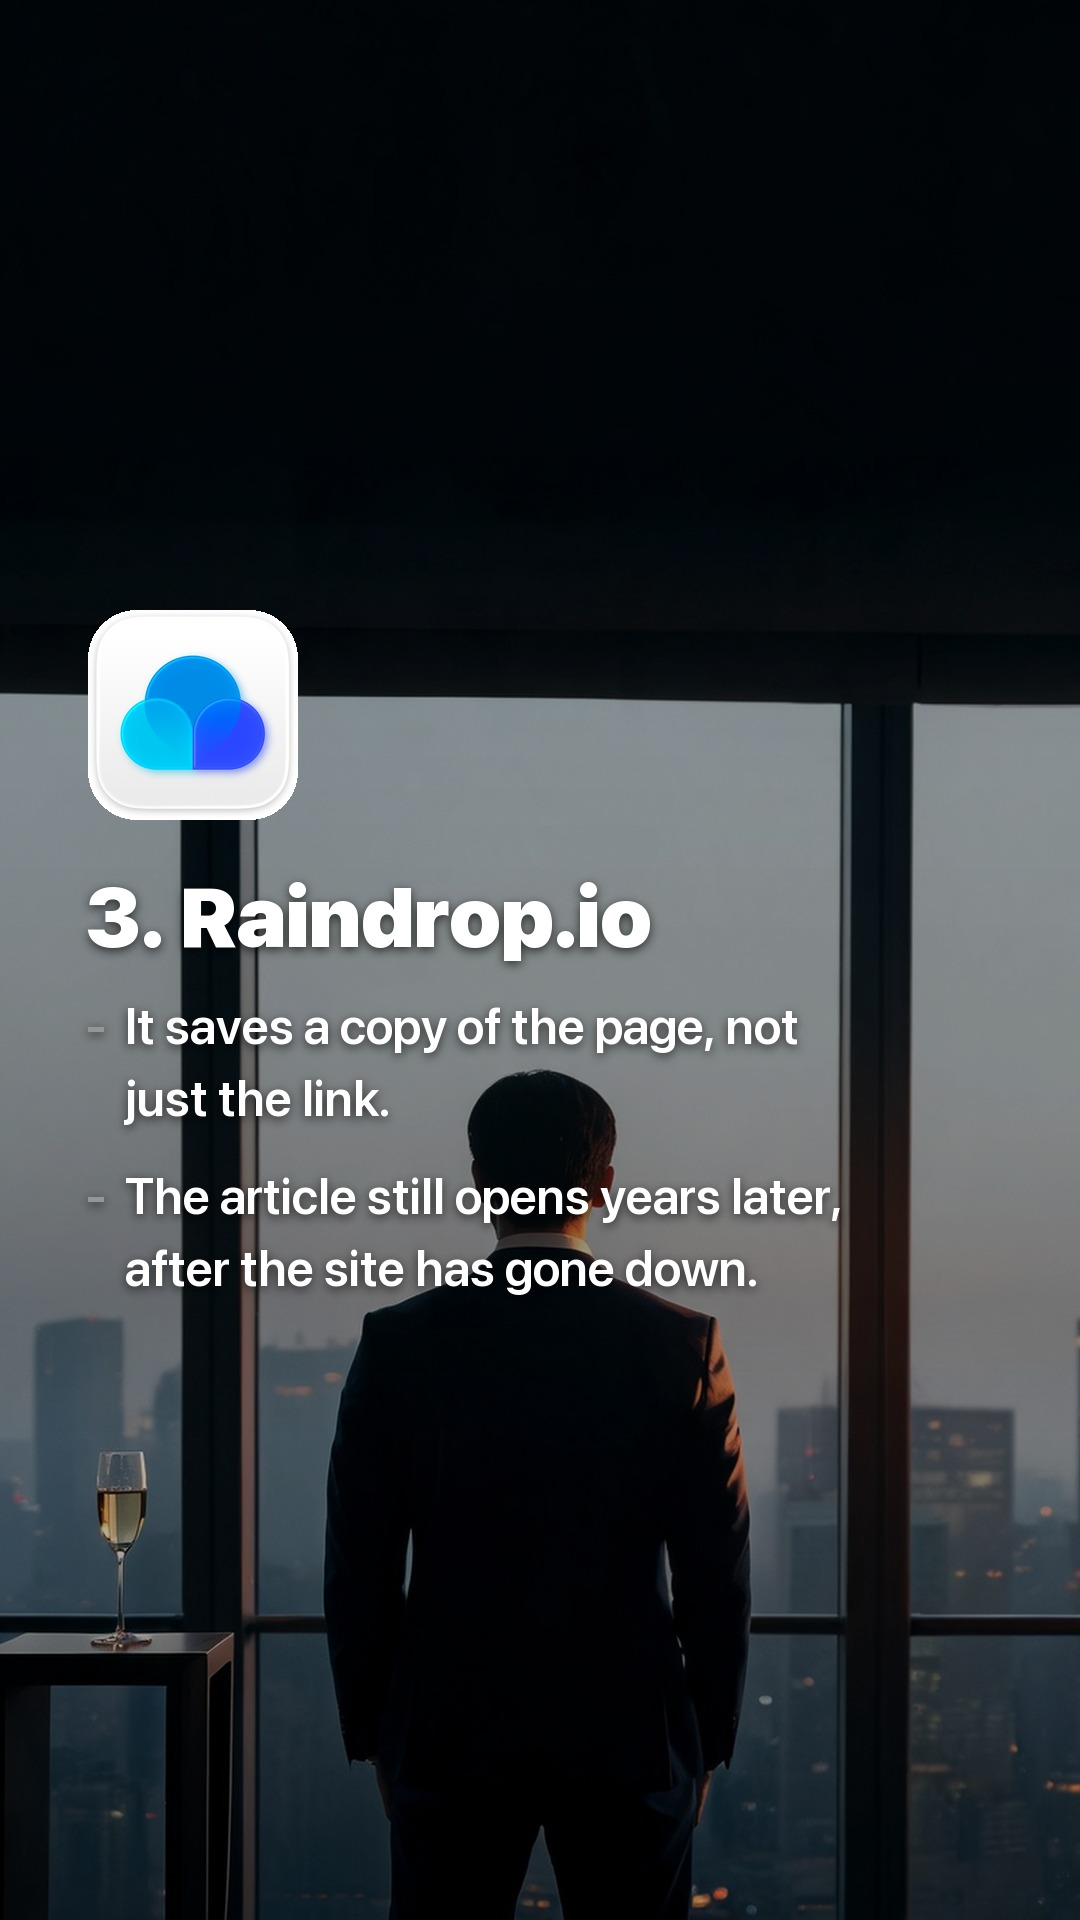
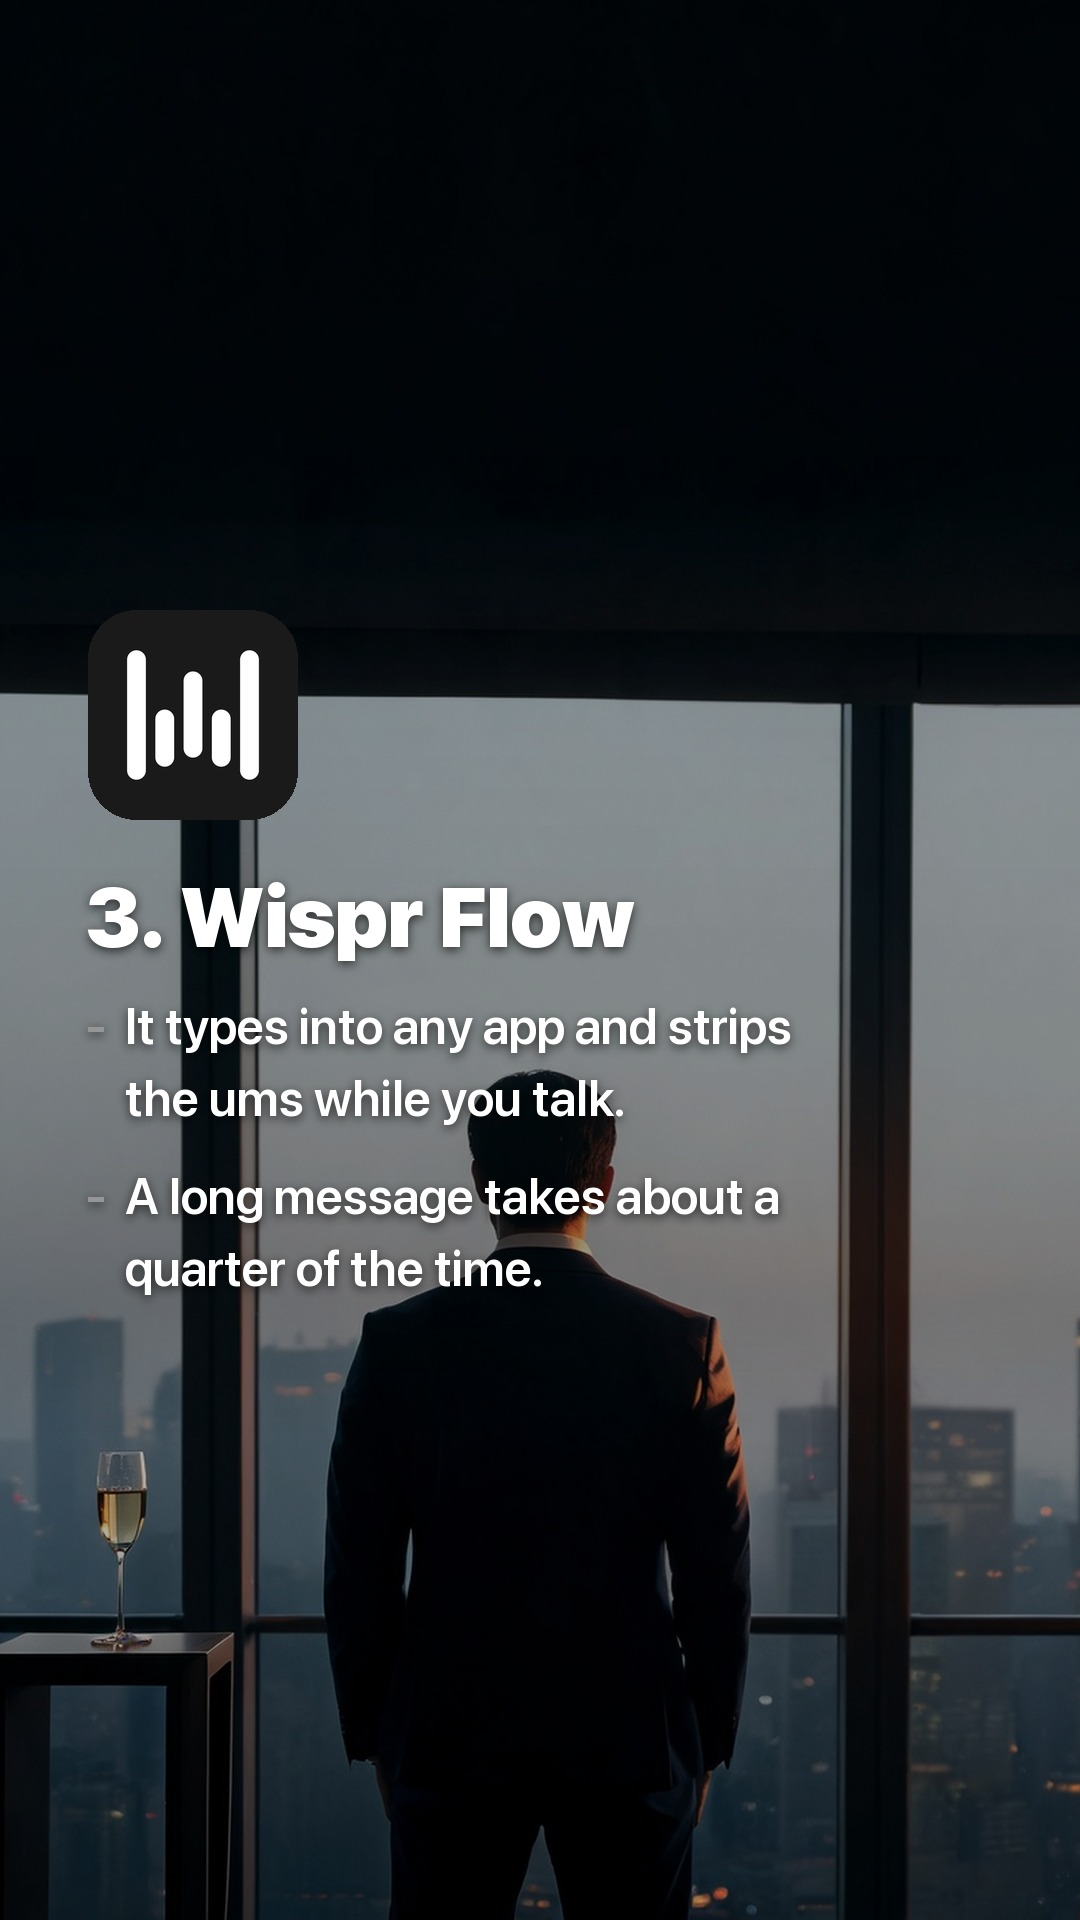
big apps only: supporting tools must be names the viewer already has
A small app in the roster is free promotion for someone else and costs a
slot, because the viewer stops to work out what it is instead of learning
the slide. ARCO is the only discovery in the post, and it reads as a find
because everything around it is familiar. assert_big_apps enforces it.

open-every-day rebuilt on Shortcuts, ARCO, Wispr Flow, Google Sheets and
Apple Notes. Canva, CapCut and Higgsfield are the right tier but are all
still inside the 6-post cooldown from post-daily-faceless and
business-at-19, so reusing them now would be the repetition the cooldown
exists to stop. Icons pulled from App Store artwork and checked by eye.

Claude-Session: https://claude.ai/code/session_018WcmYQJRQqBfrRpJzu76Jc

Changed region(s): [[0.0611, 0.3125, 0.7639, 0.6875]]

diff --git a/tools/gen-open-every-day.py b/tools/gen-open-every-day.py
@@ -1,31 +1,33 @@
 #!/usr/bin/env python3
-"""open-every-day: tools pillar, everyday productivity niche.
+"""open-every-day: tools pillar, everyday productivity, big apps only.
 
-Replaces ship-alone. That post was one niche but far too deep: Proxyman and
-Fastlane only land with iOS engineers, and this audience is not that. Same
-rule, wider job: the apps you actually reach for daily.
+Supporting tools are names the audience already has installed. Naming a small
+app promotes it for free and costs a slot, because the viewer stops to work
+out what it is. ARCO is the only app in the post anyone is meant to discover.
 """
 import os
 import sys
 sys.path.insert(0, '/Users/thinh/SIXSIX/arco-app/tools')
 from compose import (app_slide, hook_slide, assert_varied, assert_fresh_tools,
-                     assert_same_niche, next_arco_angle, record_post_tools)
+                     assert_same_niche, assert_big_apps, next_arco_angle,
+                     record_post_tools)
 
 OUT = '/Users/thinh/SIXSIX/arco-app/drafts/open-every-day'
 os.makedirs(OUT, exist_ok=True)
 
-TOOLS = ['Obsidian', 'ARCO', 'Raindrop.io', 'Readwise Reader', 'Excalidraw']
+TOOLS = ['Apple Shortcuts', 'ARCO', 'Wispr Flow', 'Google Sheets', 'Apple Notes']
 
 # App slides carry five lines of body copy, so their backgrounds have to be
 # dark enough for the scrim to hold white text. Daylight scenes wash the copy
 # out no matter how hard the scrim pushes; only the hook is short enough.
 BGS = ['bg-h01.jpg',   # hook        lounge-day
-       'bg-h59.jpg',   # obsidian    desk-led-neon
+       'bg-h59.jpg',   # shortcuts   desk-led-neon
        'bg-h53.jpg',   # arco        desk-led-warm
-       'bg-h44.jpg',   # raindrop    window-silhouette
-       'bg-h29.jpg',   # readwise    supercars-dusk
-       'bg-h21.jpg']   # excalidraw  lounge-night
+       'bg-h44.jpg',   # wispr flow  window-silhouette
+       'bg-h29.jpg',   # sheets      supercars-dusk
+       'bg-h21.jpg']   # notes       lounge-night
 
+assert_big_apps(TOOLS)
 assert_same_niche(TOOLS)
 assert_fresh_tools(TOOLS)
 assert_varied(BGS)
@@ -33,38 +35,38 @@ assert_varied(BGS)
 hook_slide(BGS[0], ['the apps i actually open every day',
                     'not the ones i pretend to use'], f'{OUT}/01.jpg')
 
-app_slide(BGS[1], 'icon-obsidian.jpg', '1. Obsidian', [
-    'Dataview turns your notes into a',
-    'live query.',
+app_slide(BGS[1], 'icon-shortcuts.png', '1. Shortcuts', [
+    'Automations can fire on arrival,',
+    'not just at a time.',
     '',
-    'Every unfinished task tagged uni,',
-    'sorted by date, writes itself.',
+    'You walk into the library and the',
+    'phone goes silent on its own.',
 ], f'{OUT}/02.jpg')
 
 app_slide(BGS[2], 'icon-arco.png', '2. ARCO', next_arco_angle(), f'{OUT}/03.jpg')
 
-app_slide(BGS[3], 'icon-raindrop.png', '3. Raindrop.io', [
-    'It saves a copy of the page, not',
-    'just the link.',
+app_slide(BGS[3], 'icon-wisprflow.png', '3. Wispr Flow', [
+    'It types into any app and strips',
+    'the ums while you talk.',
     '',
-    'The article still opens years later,',
-    'after the site has gone down.',
+    'A long message takes about a',
+    'quarter of the time.',
 ], f'{OUT}/04.jpg')
 
-app_slide(BGS[4], 'icon-readwise.jpg', '4. Readwise Reader', [
-    'Highlights come back on a spaced',
-    'schedule, not in a dead archive.',
+app_slide(BGS[4], 'icon-gsheets.png', '4. Google Sheets', [
+    'IMPORTHTML pulls a table straight',
+    'off a web page.',
     '',
-    'You see the line again right before',
-    'you would have forgotten it.',
+    'The sheet updates itself when the',
+    'page changes, no copy paste.',
 ], f'{OUT}/05.jpg')
 
-app_slide(BGS[5], 'icon-excalidraw.png', '5. Excalidraw', [
-    'The Obsidian plugin keeps the',
-    'drawing inside the note itself.',
+app_slide(BGS[5], 'icon-applenotes.png', '5. Notes', [
+    'Search reads the words inside your',
+    'photos and scanned pages.',
     '',
-    'The diagram lives with the notes',
-    'it explains, not in another app.',
+    'A whiteboard you shot in march is',
+    'findable by what it said.',
 ], f'{OUT}/06.jpg')
 
 record_post_tools('open-every-day', TOOLS)

diff --git a/tools/compose.py b/tools/compose.py
@@ -216,8 +216,34 @@ TOOL_NICHE = {
     'Notion': 'desk', 'ClickUp': 'desk', 'Endel': 'desk',
     'Obsidian': 'desk', 'Google Calendar': 'desk',
     'Raindrop.io': 'desk', 'Excalidraw': 'desk', 'Fastlane': 'build',
-    'Proxyman': 'build',
+    'Proxyman': 'build', 'Apple Shortcuts': 'desk', 'Wispr Flow': 'desk',
+    'Google Sheets': 'desk', 'Apple Notes': 'desk', 'Gmail': 'desk',
+    'Google Drive': 'desk', 'Figma': 'content', 'Descript': 'content',
+    'Quizlet': 'study', 'Duolingo': 'study', 'Grammarly': 'study',
 }
+
+
+# Only apps the audience already knows. Naming a small app is free promotion
+# for it and costs a slot: the viewer stops to work out what it is instead of
+# learning the one thing the slide teaches. Big names are context, and ARCO is
+# the only app in the post anyone is meant to discover.
+SMALL_APPS = {
+    'Obsidian', 'Raindrop.io', 'Readwise Reader', 'Excalidraw', 'Soulver',
+    'Proxyman', 'Fastlane', 'Granola', 'CleanShot X', 'Superwhisper',
+    'Raycast', 'Endel', 'Zotero', 'OpenClaw', 'Supabase', 'RevenueCat',
+    'Vercel', 'ClickUp', 'Codex',
+}
+
+
+def assert_big_apps(tools):
+    """Raise if a post recommends an app the audience has to look up."""
+    small = [t for t in tools if t in SMALL_APPS and t not in ALWAYS_ALLOWED]
+    if small:
+        raise SystemExit(
+            f'small apps in the roster: {", ".join(small)}. '
+            'Supporting tools must be names the viewer already knows; '
+            'ARCO is the only discovery in the post.')
+    return True
 
 
 def assert_same_niche(tools):
